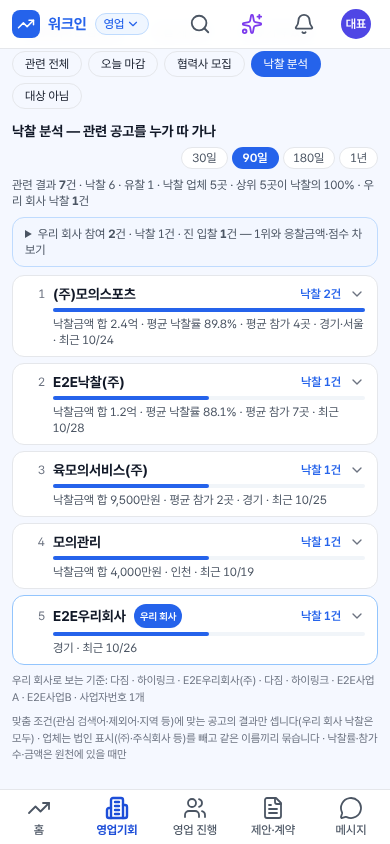
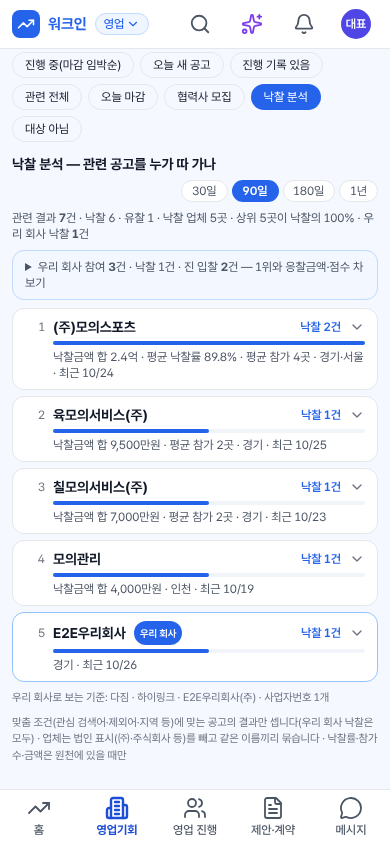
[배포확인요청][로컬요청] 237차 K-apt 참여업체 서류·현장설명(잠긴 고르기 칸 선택값) · 가린 금액 = 비공개 · 진 입찰 '서류 부적합으로 평가 제외' · 서류 N 업체 순위 제외
로컬 10/28 17:25 제안(진 입찰 줄의 금액 빈칸 · 고척아이파크MD 서류 N).
- src/lib/sales/collectors/kapt.ts: 참여업체 표의 현장설명 참석·입찰구비서류 적정 칸 = 잠긴 고르기 칸의 선택값(선택 표시가 없으면 모름) · 낙찰여부·낙찰무효도 선택값 우선 · 응찰금액 '*' 가림·칸 없음 = hidden · 상세 읽기 판 3(예전 판으로 읽은 줄은 한 번 더)
- src/lib/sales/collectors/procurement.ts: 참여업체 정리에 docs·site(참/거짓일 때만)·hidden
- src/lib/sales/awardStats.ts: 점수 순위에서 서류 N 업체 뺌 · 진 입찰에 우리 docs·hidden(금액 칸 없음 포함)
- src/components/sales/AwardStats.tsx: '우리 금액 비공개' · 서류 N이면 점수 줄 대신 '서류 부적합으로 평가 제외(입찰구비서류 적정 여부 N)'
- src/lib/sales/noticeDiag.ts: 플랫폼 공고 조회 낙찰 칸에 participantRows(운영 대조용)
- tests/api/source-midline-comment.test.mjs: '…; // 설명 const 이름 =' 모양(HIDDEN_DECL) 추가 — 이번 작업 중 실제로 생겼던 모양
- tests: sales-kapt-detail-237(새) · 231·awards-497 기대값 · E2E awards226 진 입찰 2건
시험: 영업 API 묶음 179/179 + awards-497 · E2E 226차 낙찰 분석 · typecheck·lint·build

Claude-Session: https://claude.ai/code/session_016D6QaBbBuSZXAeHKp3DqaZ

diff --git a/src/lib/sales/collectors/kapt.ts b/src/lib/sales/collectors/kapt.ts
@@ -196,7 +196,8 @@ export function parseKaptResultRows(body: string): { bidNum: string; title: stri
 }
 /** 231차(로컬 10/28 11:45 '참여업체 정보' 제안): 결과가 난 K-apt 입찰 상세 — 낙찰업체 정보(다른 입찰 사이트를 거친 건) · 참여업체 정보(K-apt 전자입찰) · 낙찰/유찰/취소 사유.
  *  표 머리 칸 이름으로 열을 찾음. 대표자·대표명·전화·연락처·회사주소 칸은 읽지 않음(로컬 10/28 "대표자 이름 · 전화는 저장하지 마세요") */
-export type KaptAwardBidder = { name: string; bizNo: string | null; amount: number | null; won: boolean; invalid: boolean; score?: number | null };
+export type KaptAwardBidder = { name: string; bizNo: string | null; amount: number | null; won: boolean; invalid: boolean; score?: number | null;
+  /** 237차(로컬 10/28 17:25): 입찰구비서류 적정·현장설명 참석(잠긴 고르기 칸의 선택값) · 응찰금액 칸이 없거나 '*' 로 가려짐 */ docs?: boolean | null; site?: boolean | null; hidden?: boolean };
 export type KaptAwardDetail = { winner: { name: string; bizNo: string | null; amount: number | null; method: string | null } | null; bidders: KaptAwardBidder[] | null; reason: string | null };
 export function parseKaptAwardDetail(html: string): KaptAwardDetail {
   const table = (title: string) => { const i = html.indexOf(title); if (i < 0) return null; const s = html.lastIndexOf('<table', i), e = html.indexOf('</table>', i); return s >= 0 && e > i ? html.slice(s, e) : null; };
@@ -219,17 +220,26 @@ export function parseKaptAwardDetail(html: string): KaptAwardDetail {
     const iName = col(heads, '응찰회사', '회사명', '업체명'), iBiz = col(heads, '사업자등록번호'), iAmt = col(heads, '응찰금액', '투찰금액'), iWon = col(heads, '낙찰여부'), iBad = col(heads, '낙찰무효');
     // 234차(로컬 10/28 16:20): 적격심사 입찰은 '평가점수' 칸 — 1위는 금액이 아니라 점수로 정해짐
     const iScore = col(heads, '평가점수'); const score = (v: string | undefined) => { const n = Number(String(v ?? '').replace(/[^\d.]/g, '')); return String(v ?? '').trim() && Number.isFinite(n) && n > 0 ? n : null; };
-    if (iName >= 0) bidders = rs.map((r) => cells(r, 'td')).filter((v) => v.length > iName && v[iName]).slice(0, 60)
-      .map((v) => ({ name: v[iName], bizNo: iBiz >= 0 ? biz(v[iBiz]) : null, amount: iAmt >= 0 ? money(v[iAmt]) : null, won: iWon >= 0 && yes(v[iWon]), invalid: iBad >= 0 && yes(v[iBad]),
-        ...(iScore >= 0 && score(v[iScore]) != null ? { score: score(v[iScore]) } : {}) }));
+    // 237차(로컬 10/28 17:25): 서류·현장설명 칸은 잠긴 고르기(select disabled) — 글자로는 'Y N'이 다 보이므로 선택된 값을 읽음. 응찰금액 칸이 없거나(다른 입찰 사이트 건) '*' 로 가렸으면 비공개
+    const iDocs = col(heads, '입찰구비서류적정여부', '입찰구비서류', '구비서류'), iSite = col(heads, '현장설명참석여부', '현장설명');
+    // 고르기 칸인데 선택 표시가 없으면 모름('Y N' 글자를 Y 로 읽지 않음)
+    const chosen = (h: string | undefined) => { const s = String(h ?? ''); const o = s.match(/<option[^>]*\bselected\b[^>]*>([\s\S]*?)<\/option>/i);
+      return (o ? text(o[1]) || (o[0].match(/\bvalue\s*=\s*["']?([^"'\s>]+)/i)?.[1] ?? '') : /<option/i.test(s) ? '' : text(s)).trim(); };
+    const yn = (h: string | undefined) => { const v = chosen(h); return /^(Y|예|O|적정|참석)/i.test(v) ? true : /^(N|아니|X|부적|불참|미참)/i.test(v) ? false : null; };
+    const raws = (row: string) => [...row.matchAll(/<td[^>]*>([\s\S]*?)<\/td>/g)].map((m) => m[1]);
+    if (iName >= 0) bidders = rs.map((r) => ({ v: cells(r, 'td'), raw: raws(r) })).filter(({ v }) => v.length > iName && v[iName]).slice(0, 60)
+      .map(({ v, raw }) => ({ name: v[iName], bizNo: iBiz >= 0 ? biz(v[iBiz]) : null, amount: iAmt >= 0 ? money(v[iAmt]) : null, won: iWon >= 0 && yes(chosen(raw[iWon])), invalid: iBad >= 0 && yes(chosen(raw[iBad])),
+        ...(iScore >= 0 && score(v[iScore]) != null ? { score: score(v[iScore]) } : {}),
+        ...(iDocs >= 0 ? { docs: yn(raw[iDocs]) } : {}), ...(iSite >= 0 ? { site: yn(raw[iSite]) } : {}),
+        ...(iAmt < 0 || (/\*/.test(v[iAmt] ?? '') && !/\d/.test(v[iAmt] ?? '')) ? { hidden: true } : {}) }));
     const top = bidders?.find((b) => b.won && !b.invalid); if (!winner && top) winner = { name: top.name, bizNo: top.bizNo, amount: top.amount, method: null };
   }
   const rz = table('낙찰/유찰/취소 사유'); const reason = rz ? rowsOf(rz).map((r) => cells(r, 'td').join(' ').trim()).find(Boolean) ?? null : null;
   return { winner, bidders, reason: reason ? reason.slice(0, 200) : null };
 }
 const DETAIL_RESULT_RUN = 60;
-/** 234차: 상세 읽기 판 — 2 = 평가점수 칸. 참여업체 표를 예전 판으로 읽은 줄은 한 번 더 읽음(231차 첫 읽기 때는 점수를 안 읽었다) */
-const DETAIL_V = 2;
+/** 234차: 상세 읽기 판 — 2 = 평가점수 칸, 3(237차) = 서류·현장설명·금액 비공개. 참여업체 표를 예전 판으로 읽은 줄은 한 번 더 읽음 */
+const DETAIL_V = 3;
 /** 231차: 관련 K-apt 결과(낙찰자 있음)와 마감 지난 관련 공고(결과 미상, 45일 안)의 상세를 실행당 60건 — 아직 안 읽은 것부터, 결과 미상은 3일마다 다시.
  *  참가 업체 수·참여업체(이름·사업자번호·응찰금액·낙찰 여부·무효)·낙찰업체 사업자번호·사유 → 유찰 사유면 상태 '유찰' */
 async function awardDetails(fetchImpl: typeof fetch, left: () => number, now: Date) {

diff --git a/src/lib/sales/awardStats.ts b/src/lib/sales/awardStats.ts
@@ -17,12 +17,14 @@ export const AWARD_DAYS = [30, 90, 180, 365] as const;
 type Rec = { id: string; title: string; date: string | null; amount: number | null; rate: number | null; bidders: number | null; region: string | null; issuer: string | null; url: string | null };
 /** 231차: 우리 회사가 참여했지만 남이 낙찰한 입찰(K-apt 참여업체 표) — 1위와 응찰금액 차(우리 − 1위) */
 type Lost = { id: string; title: string; date: string | null; issuer: string | null; url: string | null; our: number | null; winner: string | null; winnerAmount: number | null; gap: number | null; bidders: number | null;
-  /** 234차: 적격심사 평가 점수(참여업체 표에 있을 때) — 1위 점수·우리 점수·차이(1위 − 우리)·우리 점수 순위 */ score?: { top: number | null; our: number; gap: number | null; rank: number; of: number } | null };
+  /** 234차: 적격심사 평가 점수(참여업체 표에 있을 때) — 1위 점수·우리 점수·차이(1위 − 우리)·우리 점수 순위 */ score?: { top: number | null; our: number; gap: number | null; rank: number; of: number } | null;
+  /** 237차: 우리 입찰구비서류 적정 여부(N 이면 평가 제외) · 우리 응찰금액이 가려졌거나 칸이 없음 */ docs?: boolean | null; hidden?: boolean };
 const num = (v: unknown) => { if (v == null || v === '') return null; const x = Number(String(v).replace(/[,원%\s]/g, '')); return Number.isFinite(x) && x > 0 ? x : null; };
 /** 234차(로컬 10/28 16:20 힐스테이트관악센트씨엘 — 금액 차 4.8만원보다 점수 차 2.67점): 참여업체 평가 점수가 있으면 1위(낙찰 표시, 없으면 최고점)·우리·차이·우리 순위(무효 뺌) */
 const scoreOf = (ps: any[], us: any, top: any) => {
   const our = num(us?.score); if (our == null) return null;
-  const valid = ps.filter((x) => !x?.invalid && num(x?.score) != null); const best = num(top?.score) ?? Math.max(...valid.map((x) => num(x.score) as number));
+  // 237차: 서류 부적합(N) 업체는 순위에서 뺌
+  const valid = ps.filter((x) => !x?.invalid && x?.docs !== false && num(x?.score) != null); const best = num(top?.score) ?? Math.max(...valid.map((x) => num(x.score) as number));
   return { top: Number.isFinite(best) ? best : null, our, gap: Number.isFinite(best) ? Math.round((best - our) * 100) / 100 : null, rank: valid.filter((x) => (num(x.score) as number) > our).length + 1, of: valid.length };
 };
 const avg = (xs: number[]) => (xs.length ? Math.round((xs.reduce((a, b) => a + b, 0) / xs.length) * 10) / 10 : null);
@@ -50,7 +52,8 @@ export async function awardStats(u: SessionUser, days0: number) {
     if (us || mine) participated++;
     if (us && !mine && name) { const top = ps.find((x) => x?.won && !x?.invalid); const our = num(us.amount), wa = num(r.winner_amount) ?? num(top?.amount);
       lost.push({ id: String(r.id ?? id), title: String(r.title ?? '').trim(), date: String(r.award_date ?? r.posted_date ?? '').slice(0, 10) || null, issuer: String(r.issuer ?? r.facility_name ?? '').trim() || null,
-        url: String(r.source_url ?? '').trim() || null, our, winner: name, winnerAmount: wa, gap: our != null && wa != null ? our - wa : null, bidders: ps.length || num(r.bidders), score: scoreOf(ps, us, top) }); }
+        url: String(r.source_url ?? '').trim() || null, our, winner: name, winnerAmount: wa, gap: our != null && wa != null ? our - wa : null, bidders: ps.length || num(r.bidders), score: scoreOf(ps, us, top),
+        ...(typeof us.docs === 'boolean' ? { docs: us.docs } : {}), ...(us.hidden === true || (our == null && us.amount == null) ? { hidden: true } : {}) }); }
     if (!mine && !passPrefs(r, p).ok) continue; // 227차: 우리 회사 낙찰은 맞춤 조건(지역·검색어 등) 밖이어도 셈
     total++;
     if (!name) { failed++; continue; }

diff --git a/src/components/sales/AwardStats.tsx b/src/components/sales/AwardStats.tsx
@@ -10,7 +10,7 @@ import { ErrorBox, Skeleton, cx } from '@/components/ui';
 type Rec = { id: string; title: string; date: string | null; amount: number | null; rate: number | null; bidders: number | null; region: string | null; issuer: string | null; url: string | null };
 type Co = { key: string; rank: number; name: string; ours: boolean; wins: number; amount: number | null; rate: number | null; bidders: number | null; regions: string[]; last: string | null; recent: Rec[] };
 type Lost = { id: string; title: string; date: string | null; issuer: string | null; url: string | null; our: number | null; winner: string | null; winnerAmount: number | null; gap: number | null; bidders: number | null;
-  score?: { top: number | null; our: number; gap: number | null; rank: number; of: number } | null };
+  score?: { top: number | null; our: number; gap: number | null; rank: number; of: number } | null; docs?: boolean | null; hidden?: boolean };
 type Stats = { days: number; total: number; awarded: number; failed: number; companies: number; ours: number; top5Share: number; items: Co[]; me?: { names: string[]; biz: number; noBiz: string[] };
   participated?: number; lostCount?: number; lost?: Lost[] };
 const C = '#2563EB'; // 영업 색(SalesSrc 와 같음)
@@ -35,8 +35,9 @@ export function AwardStats({ onOpen }: { onOpen: (id: string) => void }) {
           {(data.lost ?? []).length > 0 && <ul className="mt-1.5 space-y-1">{(data.lost ?? []).map((x) => (
             <li key={x.id} className="flex min-w-0 items-start gap-1.5"><button type="button" onClick={() => onOpen(x.id)} className="min-w-0 flex-1 text-left hover:underline" data-testid="award-lost-row">
               <span className="text-ink-3">{md(x.date) ?? '날짜 없음'}</span> {x.title}
-              <span className="block text-ink-2">{[x.winner && `1위 ${x.winner}${won(x.winnerAmount) ? ` ${won(x.winnerAmount)}` : ''}`, won(x.our) && `우리 ${won(x.our)}`, x.gap != null && `차이 ${x.gap > 0 ? '+' : x.gap < 0 ? '−' : ''}${won(Math.abs(x.gap)) ?? '0원'}`, x.bidders && `참가 ${x.bidders}곳`].filter(Boolean).join(' · ')}</span>
-              {x.score && <span className="block text-ink-2" data-testid="award-lost-score">적격심사 점수 — {[x.score.top != null && `1위 ${x.score.top}`, `우리 ${x.score.our}(${x.score.rank}위/${x.score.of}곳)`,
+              <span className="block text-ink-2">{[x.winner && `1위 ${x.winner}${won(x.winnerAmount) ? ` ${won(x.winnerAmount)}` : ''}`, won(x.our) ? `우리 ${won(x.our)}` : x.hidden && '우리 금액 비공개', x.gap != null && `차이 ${x.gap > 0 ? '+' : x.gap < 0 ? '−' : ''}${won(Math.abs(x.gap)) ?? '0원'}`, x.bidders && `참가 ${x.bidders}곳`].filter(Boolean).join(' · ')}</span>
+              {x.docs === false ? <span className="block text-amber-800" data-testid="award-lost-docs">서류 부적합으로 평가 제외(입찰구비서류 적정 여부 N)</span>
+                : x.score && <span className="block text-ink-2" data-testid="award-lost-score">적격심사 점수 — {[x.score.top != null && `1위 ${x.score.top}`, `우리 ${x.score.our}(${x.score.rank}위/${x.score.of}곳)`,
                 x.score.gap != null && (x.score.gap > 0 ? `${x.score.gap}점 낮음` : x.score.gap < 0 ? `${-x.score.gap}점 높음` : '같은 점수')].filter(Boolean).join(' · ')}</span>}</button>
               {x.url && <a href={x.url} target="_blank" rel="noopener noreferrer" className="shrink-0 text-ink-3 hover:text-ink" aria-label="원문 보기"><ExternalLink className="size-3.5" /></a>}</li>))}</ul>}
         </details>}

diff --git a/src/lib/sales/noticeDiag.ts b/src/lib/sales/noticeDiag.ts
@@ -55,7 +55,10 @@ export async function lookupNotices(q: { no?: string | null; q?: string | null }
       award: r.winner_name || r.winner_amount || r.winner_rate || r.bidders ? { winner: r.winner_name ?? null, winnerBizNo: r.winner_biz_no ?? null, amount: r.winner_amount ?? null, rate: r.winner_rate ?? null,
         bidders: r.bidders ?? null, awardDate: r.award_date ?? null, resultAt: r.result_at ?? null,
         // 232차: 낙찰률·참가 수를 뒤늦게 채운 때 · K-apt 상세를 읽은 때·참여업체 수·사유 — resultAt 이 비면 결과를 215차(10/27 18시) 전에 알았거나 원본 복사로 들어온 줄
-        resultFilledAt: r.result_filled_at ?? null, detailAt: r.kapt_detail_at ?? null, participants: Array.isArray(r.participants) ? r.participants.length : null, note: r.result_note ?? null } : null,
+        resultFilledAt: r.result_filled_at ?? null, detailAt: r.kapt_detail_at ?? null, participants: Array.isArray(r.participants) ? r.participants.length : null, note: r.result_note ?? null,
+        // 237차: 참여업체 줄마다 서류 적정·현장설명 참석·금액 비공개·점수 — 운영에서 K-apt 상세 화면과 대조용(대표자·전화는 원래 저장 안 함)
+        participantRows: Array.isArray(r.participants) ? r.participants.slice(0, 60).map((b: any) => ({ name: b?.name ?? null, won: b?.won === true, invalid: b?.invalid === true,
+          docs: typeof b?.docs === 'boolean' ? b.docs : null, site: typeof b?.site === 'boolean' ? b.site : null, hidden: b?.hidden === true, amount: b?.amount ?? null, score: b?.score ?? null })) : null } : null,
       updatedAt: r.updated_at ?? null, mailed: mailedOf(src_id, r),
       firstSeenAt: r.first_seen_at ?? r.created_at ?? null, lastSeenAt: r.last_seen_at ?? null, refitAt: r.refit_at ?? null, refoundAt: r.refound_at ?? null, syncedAt: synced_at,
       nowRule: (() => { const f = matchFit(String(r.title ?? ''), r.bid_category ?? null, r.task_scope ?? null, r.source_type === 'kapt_bid' ? '공동주택' : null); return { fit: f.fit, matched: f.matched, dropped: f.dropped ?? [] }; })(),

diff --git a/src/lib/sales/collectors/procurement.ts b/src/lib/sales/collectors/procurement.ts
@@ -191,7 +191,8 @@ export function validateNoticePayload(p: Record<string, unknown>, now: Date): No
     notice_no: txt(p.notice_no), // #543 차수·구분 없는 공고번호(온비드·국방·LH — 원천 사이트에서 검색할 번호)
     // 231차 K-apt 상세: 참여업체(이름·사업자번호·응찰금액·낙찰 여부·무효만 — 대표자·전화 칸은 받지 않음)·낙찰/유찰/취소 사유·상세 읽은 때
     ...(Array.isArray(p.participants) ? { participants: (p.participants as any[]).slice(0, 60).map((b) => ({ name: txt(b?.name)?.slice(0, 100) ?? '', bizNo: txt(b?.bizNo), amount: num(b?.amount), won: b?.won === true, invalid: b?.invalid === true,
-      ...(num(b?.score) != null ? { score: num(b?.score) } : {}) })).filter((b) => b.name) } : {}), // 234차: 적격심사 평가 점수(있을 때만)
+      ...(num(b?.score) != null ? { score: num(b?.score) } : {}), ...(typeof b?.docs === 'boolean' ? { docs: b.docs } : {}), ...(typeof b?.site === 'boolean' ? { site: b.site } : {}),
+      ...(b?.hidden === true ? { hidden: true } : {}) })).filter((b) => b.name) } : {}), // 234차: 적격심사 평가 점수 · 237차: 서류 적정·현장설명 참석·금액 비공개(있을 때만)
     ...(txt(p.result_note) ? { result_note: txt(p.result_note)!.slice(0, 200) } : {}), ...(txt(p.kapt_detail_at) ? { kapt_detail_at: txt(p.kapt_detail_at) } : {}), ...(num(p.kapt_detail_v) != null ? { kapt_detail_v: num(p.kapt_detail_v) } : {}),
   };
   return { ok: true, row };

diff --git a/docs/handoff/LOCAL_LOG.md b/docs/handoff/LOCAL_LOG.md
@@ -619,6 +619,7 @@
 - 2026-10-28 [클라우드] [배포확인요청][로컬요청] 234차 — 로컬 16:20 'K-apt 입찰결과 목록 1,800 · 관련 0' 원인 2개: ① 검색 칸 이름이 틀려(searchKeyword·startDate → 실제 bidTitle·dateStart·dateEnd) 검색어마다 같은 최신 100건 ② 결과 표 9칸에서 3번째(세대수)를 제목으로 판정 — 이 수집기는 그동안 낙찰을 거의 못 붙였음 → 바른 칸 이름·표 머리 이름으로 고침 + 평가점수 칸 저장·낙찰 분석 진 입찰 줄에 '적격심사 점수 — 1위 · 우리(순위) · n점 낮음' + 지난 1년치 결과가 한꺼번에 메일에 오르지 않게(낙찰일 7일 넘은 결과는 결과 시각 = 그날 끝, 메일·오늘 탭 결과 묶음은 결과를 안 때 기준, 원본 복사도 같음). '유찰 33'은 맞게 셈(사유 표 첫 칸이 유찰·낙찰자 없음). **로컬 요청:** 배포 뒤 'K-apt 입찰결과(낙찰)' [지금 수집] 한 번 → 요약 '관련 n건 · 낙찰 병합 n · 신규 n' (0 이 아니어야 함) · 낙찰 분석 1년 결과 수가 늘었는지 · 힐스테이트관악센트씨엘 진 입찰 줄에 '적격심사 점수 — 1위 97.71 · 우리 95.04(5위/9곳) · 2.67점 낮음'(231차 판으로 참여업체 표를 읽은 줄은 다음 실행에서 한 번 더 읽어 점수를 채움) · 내일 당일 메일 결과 구역이 옛 결과로 넘치지 않는지.
 - 2026-10-28 [클라우드] [배포확인요청][로컬요청] 235차 — 234차로 K-apt 결과 목록이 살아나기 전에 실제 결과 제목(공개 화면 '헬스'·'커뮤니티'·'골프' 247건)으로 판정 점검: 빈 곳 7건 고침 — '헬스장 인테리어업체'·'샤워실 시설 환경개선'·'골프연습장 환경개선'·'빔프로젝터 공급업체'는 다짐 아님 · '커뮤니티 시스템 에어컨 교체'는 하이링크 아님(냉난방기) · 진짜 위탁운영·위탁관리·출입시스템 공고는 그대로 · 결과 목록에서 낙찰업체가 빈 줄은 건너뜀 · 16:55 '체력단련 0건' = 그 낱말이 든 결과가 없는 정상 0건(표 머리는 옴) → 오류로 세지 않음(부분 성공 안 됨). **로컬 요청:** 배포 뒤 플랫폼 운영 › 공고 조회 [다시 판정] 한 번 → '내림 n · 바꿈 n'(이미 저장된 같은 모양 공고 정리) · 그 뒤 234차 요청대로 K-apt 입찰결과 [지금 수집].
 - 2026-10-28 [클라우드] [배포확인요청][로컬요청] 236차 긴급 — 대표 '일정생성불가함'(로컬 17:40 재현: 캘린더 목록이 일정 창보다 늦게 오면 새 일정 저장 본문에 calendarId 없음): 서버가 캘린더 없는 새 일정을 본인 개인 캘린더로 받음 + 일정 창이 목록이 오면 내 개인 일정으로 채움 + 비어 있으면 고르기 칸에 '캘린더 불러오는 중…' 빈 선택지 + 빠른 입력도 같음. **로컬 요청:** 배포 뒤 운영에서 같은 방법(목록 늦춤 + 저장 가로채기)으로 ① 목록이 온 뒤 [완료] 본문에 calendarId 가 있는지 ② 목록 전 [완료]면 본문에 없어도 막히지 않는지(가로채지 말고 시험 일정 1건 만들고 지워도 됨) · 대표께 '이제 그대로 등록하시면 됩니다' 안내.
+- 2026-10-28 [클라우드] [배포확인요청][로컬요청] 237차 — 로컬 17:25 제안: K-apt 참여업체 서류·현장설명(잠긴 고르기 칸의 선택값) 저장 · 가린 금액('*')·응찰금액 칸 없는 표 = 금액 비공개 · 낙찰 분석 진 입찰에 '우리 금액 비공개'·우리 서류 N이면 '서류 부적합으로 평가 제외'(점수 줄 대신) · 서류 N 업체는 점수 순위에서 뺌 · 상세 읽기 판 3(예전 판 줄 한 번 더 읽음) · 플랫폼 공고 조회 낙찰 칸에 참여업체 줄(participantRows). **로컬 요청:** 배포 뒤 [지금 수집](K-apt 입찰결과) → ① 낙찰 분석 › 진 입찰에서 고척아이파크MD 줄에 '서류 부적합으로 평가 제외' ② 금액 빈칸이던 줄이 '우리 금액 비공개' ③ 공고 조회(no=공고번호)의 award.participantRows 서류·현장설명 값이 K-apt 상세 화면과 같은지(특히 N 줄, 값이 null 이면 고르기 칸 표시 방식이 달라 못 읽은 것 — 알려 주세요).
 - 2026-10-26 [클라우드] [배포확인요청] 176차 — 171·173차 CI 빨간불 원인 2가지 바로잡음: ① 캘린더 종일 칸 설정이 창 폭이 640 을 넘나들 때 PC 값(꺼짐)을 휴대폰 키에 덮어쓰던 실제 버그(휴대폰 보기 종일 줄이 꺼진 채 시작) → 사람이 바꿀 때만 저장·폭 바뀌면 다시 읽음 ② 실기기 83 시트 버튼 줄 1px 여유. 로컬 확인 요청: 없음(운영 화면 변화는 'PC 창을 좁혔다 넓혀도 휴대폰 종일 줄 설정이 안 꺼짐'뿐). CI 결과는 클라우드가 확인.
 - 2026-10-25 [클라우드] [배포확인요청] 149차 — #599 새 고객사 시뮬레이션(시험 서버 E2E: 가입 → 온보딩 → 첫 화면 → 공간 켜기 → 데이터 설정 → 마케팅 → 자동 제작 → 사용량 → 알림 → API 8개, 캡처 281~295) 명세 §3 결과: 내부 이름 0건 · 키 없는 수집기 7개 = '신청 필요'+[방법 보기] · '채널 연결 3단계' · 첫날 알림 0건 · 사용량 원화만. #602 공통 함수 customerScope(seesInternals = 슈퍼관리자 또는 내부 테넌트): 수집기·사용량·자동 제작·마케팅 홈·AI 예산 응답에서 원인·원가·달러·모델·외부 서비스 이름·원천 주소·공용 실행 기록 제거 + 고객 문구 사전 + 금지 낱말 자동 검사(API 5/5·E2E 발견 0건). P0 버그 수정: 새 회사 첫 로그인·온보딩 끝 직후 흰 화면+로고(수화 오류로 실행 애니메이션 덮개가 안 걷힘) → Modal 마운트 뒤 포털·IntroGuard·CSS 안전장치. 마이그레이션 없음(200 그대로). 로컬 요청: ① 운영에서 새 회사 가입(대표 결정 범위 안에서) → 확인 링크 → 첫 화면이 흰 화면 없이 뜨는지, 온보딩 [완료] 직후도 ② 고객사 계정으로 영업 › 데이터 설정(상태 칩 4가지·[방법 보기]·키 이름/주소/오류 원문 없음)·마케팅 › 자동 제작(글 모델 등급 이름만)·관리 › 사용량(원화·%·횟수만) ③ 내부 테넌트(우리 회사)에서는 예전처럼 전부 보이는지 ④ 공개 요금표(/api/public/ai-plans·소개 사이트)의 단가 표시는 그대로 두었음 — 대표 결정 필요하면 알려 주세요.
 - 2026-10-25 [클라우드] [배포확인요청] 148차 — #592 ② 휴대폰 캘린더 주 보기 밀도(명세 §2): 시간 칸 주 40/3일 48/일 64 → 한 화면 약 15시간, 블록 11px 중간 굵기·줄 수 블록 높이만큼, 좁은 블록 앞머리 [태그] 떼기(부재 종류 유지), 종일 줄 기본 켬(2줄 + '+n개' → 그날 목록), 미팅 단추 둥근 48px·아래로 밀면 숨김, 휴대폰 머리줄 한 줄(월▾·보기 전환·‹›·오늘·+). 견적서 공급자 긴 주소 두 줄(로컬 15:45). 마이그레이션 없음(200 그대로). 로컬 요청: ① 대표 휴대폰(390~412px) 주 보기 — 08~22시가 한 화면에, [다짐 문의] 업무가 내용부터 2줄로, 종일 칩이 날짜 머리 아래 바로, + 단추가 칸을 안 가리고 아래로 밀면 숨는지(명세 §3 2~5) ② 3일·일 보기 칸 높이·일 보기는 제목 그대로 ③ 견적서 미리보기(hilink) 공급자 주소 두 줄 ④ 명세 §3 1·6(구글 11건·중복 정리)은 가져오기를 대표가 취소(#604)해 하지 않음 — 워크인에 직접 넣은 일정만 보임.

diff --git a/TEST_REPORT.md b/TEST_REPORT.md
@@ -1,7 +1,9 @@
 # 시험 보고서
 
 최종 실행: 2026-10-13 (UTC) · 클라우드 개발 환경 (Node 22, PostgreSQL 16, Chromium 141)
-요약 (2026-10-28 236차: 긴급 — 대표 10/28 '일정생성불가함'(일정 등록 [완료] → '입력값을 확인해 주세요 — 캘린더: 필수 항목입니다') · 로컬 17:40 재현(운영, /api/calendars 를 5초 늦추고 저장은 가로채 막음): 캘린더 목록이 오기 전에 [일정 등록]을 열면 새 일정 창이 처음 한 번만 캘린더를 정하는데 그때 목록이 비어 빈 채로 남고, 고르기 칸에는 빈 선택지가 없어 첫 캘린더가 보여 사용자는 고른 줄 앎 → 저장 본문에 calendarId 없음 · 고침: ① 서버 — 새 일정에 캘린더가 없거나 빈 값이면 본인 개인 캘린더(없으면 만듦), 응답에 정한 캘린더 · 고칠 때 캘린더를 빼면 그대로 · 남의 캘린더 권한은 전처럼 ② 일정 창 — 목록이 오면 내 개인 일정(없으면 쓸 수 있는 첫 캘린더)으로 채움 · 빠른 입력 [더 자세히]가 넘기는 빈 값도 건너뜀 · 비어 있으면 고르기 칸에 '캘린더 불러오는 중…'/'내 개인 일정(기본)' 빈 선택지(화면과 상태가 같게) · 빈 값은 보내지 않음(서버가 정함) ③ 빠른 입력도 같은 빈 선택지·빈 값 안 보냄
+요약 (2026-10-28 237차: 로컬 10/28 17:25 제안(진 입찰 줄의 금액 빈칸 · 고척아이파크MD 서류 N): K-apt 참여업체 표의 현장설명 참석·입찰구비서류 적정 칸은 잠긴 고르기 칸이라 글자로는 'Y N'이 다 보임 → 선택된 값을 읽어 업체마다 서류·현장설명 저장(선택 표시가 없으면 모름 = 저장 안 함) · 응찰금액이 '*'로 가려졌거나 응찰금액 칸이 없는 표(다른 입찰 사이트를 거친 건)는 금액 비공개 표시 · 상세 읽기 판 3(예전 판으로 읽은 줄은 한 번 더 읽음) · 낙찰 분석 진 입찰: 우리 금액이 없으면 빈칸 대신 '우리 금액 비공개' · 우리 서류 N이면 점수 줄 대신 '서류 부적합으로 평가 제외(입찰구비서류 적정 여부 N)' · 서류 N 업체는 점수 순위에서 뺌 · 낙찰여부·낙찰무효 칸도 고르기면 선택값으로 읽음 · 플랫폼 공고 조회 낙찰 칸에 참여업체 줄(이름·낙찰·무효·서류·현장설명·비공개·금액·점수) · 숨은 설명 검사에 '…; // 설명 const 이름 =' 모양 추가(이번 작업 중 실제로 한 번 생김 — 타입 검사가 잡음)
+시험: API sales-kapt-detail-237(새 — 고르기 칸 선택값·선택 표시 없음·가린 금액·금액 칸 없는 표·대표자·전화 저장 안 함 / 진 입찰 평가 제외·금액 비공개·서류 N 98점 업체 순위 제외 → 2위/4곳) · sales-kapt-detail-231(서류·현장설명·판 3) · sales-awards-497(참여업체 줄) · 영업 API 묶음 179/179 · E2E 226차 낙찰 분석(진 입찰 2건 — '우리 금액 비공개'·'서류 부적합으로 평가 제외', 점수 줄 없음) · typecheck·lint·build
+확인 못함: 실제 K-apt 상세의 고르기 칸이 선택 속성으로 표시되는지(스크립트로 고르면 '모름'으로 남음) — 로컬이 [지금 수집] 뒤 고척아이파크MD 줄·공고 조회 참여업체 줄로 확인 · 다른 입찰 사이트 건 참여업체 표의 실제 칸 이름) · 앞선 요약 (2026-10-28 236차: 긴급 — 대표 10/28 '일정생성불가함'(일정 등록 [완료] → '입력값을 확인해 주세요 — 캘린더: 필수 항목입니다') · 로컬 17:40 재현(운영, /api/calendars 를 5초 늦추고 저장은 가로채 막음): 캘린더 목록이 오기 전에 [일정 등록]을 열면 새 일정 창이 처음 한 번만 캘린더를 정하는데 그때 목록이 비어 빈 채로 남고, 고르기 칸에는 빈 선택지가 없어 첫 캘린더가 보여 사용자는 고른 줄 앎 → 저장 본문에 calendarId 없음 · 고침: ① 서버 — 새 일정에 캘린더가 없거나 빈 값이면 본인 개인 캘린더(없으면 만듦), 응답에 정한 캘린더 · 고칠 때 캘린더를 빼면 그대로 · 남의 캘린더 권한은 전처럼 ② 일정 창 — 목록이 오면 내 개인 일정(없으면 쓸 수 있는 첫 캘린더)으로 채움 · 빠른 입력 [더 자세히]가 넘기는 빈 값도 건너뜀 · 비어 있으면 고르기 칸에 '캘린더 불러오는 중…'/'내 개인 일정(기본)' 빈 선택지(화면과 상태가 같게) · 빈 값은 보내지 않음(서버가 정함) ③ 빠른 입력도 같은 빈 선택지·빈 값 안 보냄
 시험: API events-236(새 — 캘린더 없이·빈 값 = 내 개인 캘린더 · 고른 캘린더 그대로 · 고칠 때 그대로 · 남의 개인 캘린더 막음) · 일정 관련 API(ai-calendar·alarm·meetings-218·fixes-184·minutes·presence·away) · E2E 236차(목록 2.5초 늦춤 → 창의 캘린더 = 내 개인 일정 · 저장 본문에 calendarId / 8초 늦춤 → '캘린더 불러오는 중…' · 본문에 없음 → 서버가 내 개인 일정) · ④ 반복 일정 등록 · V14 35 캘린더 빈 칸 · typecheck·lint·build
 확인 못함: 운영에서 대표 계정으로 다시 확인(로컬이 목록 늦춤 + 저장 가로채기로 확인 예정)) · 앞선 요약 (2026-10-28 235차: 234차로 K-apt 결과 목록이 살아나면 붙을 결과를 미리 점검(K-apt 공개 결과 화면 '헬스' 94·'커뮤니티' 100·'골프' 53건 제목에 지금 판정 규칙) — 관련 58건 중 대부분은 위탁운영·위탁관리(다짐)·출입관리시스템 설치·출입시스템 렌탈(하이링크)로 맞음, 빈 곳 7건: '커뮤니티 헬스장 인테리어업체'·'커뮤니티 샤워실 시설 환경개선'·'골프연습장 환경개선'·'골프연습장 빔프로젝터 공급업체'가 다짐으로 · '커뮤니티 시스템 에어컨 교체설치 공사'·'커뮤니티 시스템에어컨 교체공사'가 하이링크로('시스템 에어컨'의 '시스템') → 다짐 운영·위탁만 낱말에 인테리어·환경개선·공급 · '시스템 에어컨'은 하이링크 시스템 낱말이 아님(냉난방기, 다시 판정이 예전 하이링크 판정을 내리도록 까닭을 남김) — 고친 뒤 커뮤니티 48→44·골프 5→3·헬스 5→4, 진짜 운영·하이링크 공고는 그대로 · 결과 목록에서 낙찰업체가 빈 줄은 건너뜀(마감일 없이 병합되면 상태가 '진행중'으로 되돌 수 있어 — 공개 화면 94줄은 모두 낙찰업체 있음) · 로컬 16:55 '체력단련 결과 목록 0건(응답 형식 확인 필요)'으로 실행이 부분 성공 — 표 머리는 왔는데 줄이 없으면 정상 0건(표 자체가 없을 때만 오류)
 시험: API sales-fit-235(새 — 실제 제목 11건: 지금 규칙 관련 아님 6·다짐 3·하이링크 2, 까닭 '제목에 인테리어' · 까닭 '시스템 에어컨은 냉난방기' · 다시 판정 = 예전 규칙이 저장한 다짐 4·하이링크 2 내림, 두 번째 0) · sales-collectors(+표 머리만 온 검색어 17개는 오류 아님) · sales-fit-191·227 · 영업 관련 API 전체 · typecheck·lint·build
